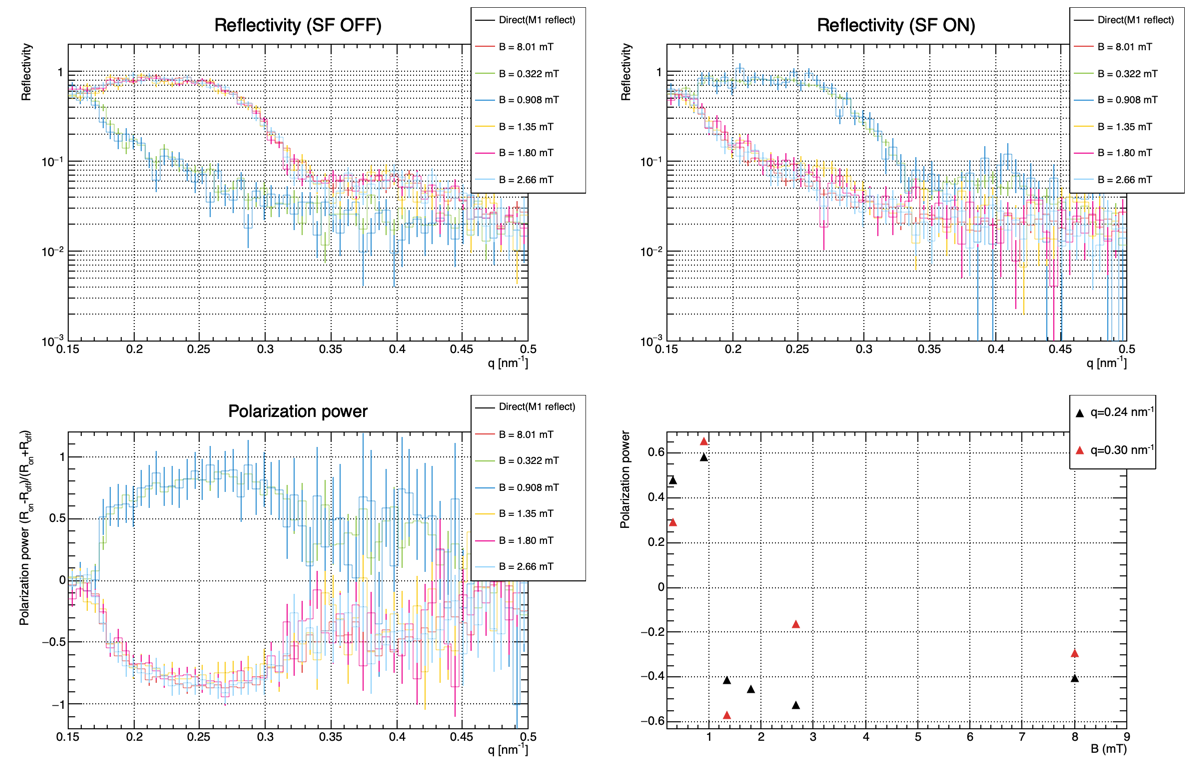
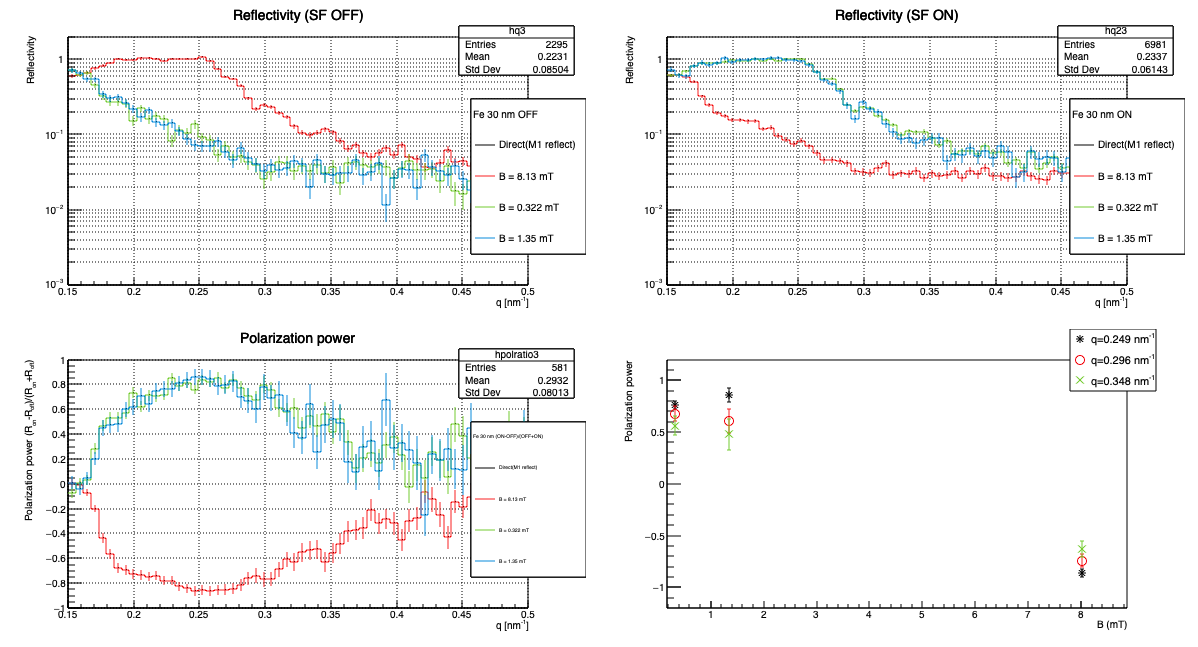
mT_Pol_50nm+90nm

diff --git a/codes/simple/Pol_Power_50nm.C b/codes/simple/Pol_Power_50nm.C
@@ -52,7 +52,7 @@ Int_t Pol_Power_50nm(){
   InitColor();
   TH1::SetDefaultSumw2();
 
-  const Int_t num = 7;
+  const Int_t num = 3;
   Int_t kp[num];
   Int_t kp2[num];
   TTree* tup[num];
@@ -93,7 +93,7 @@ Int_t Pol_Power_50nm(){
   TString degstr2[num];
   //off
   degstr[0]="Direct(M1 reflect)";
-  degstr[1]="B = 8.01 mT";
+  degstr[1]="B = 8.13 mT";
   degstr[2]="B = 0.322 mT";
   //degstr[3]="B = 0.908 mT";
   //degstr[4]="B = 1.35 mT";
@@ -102,7 +102,7 @@ Int_t Pol_Power_50nm(){
 
   //on
   degstr2[0]="Direct(M1 reflect)";
-  degstr2[1]="B = 8.01 mT";
+  degstr2[1]="B = 8.13 mT";
   degstr2[2]="B = 0.322 mT";
   //degstr2[3]="B = 0.908 mT";
   //degstr2[4]="B = 1.35 mT";
@@ -325,13 +325,8 @@ Int_t Pol_Power_50nm(){
     else hpolratio[i]->Draw("ehsames");
     leg3->Draw();
     }
+
     
-/*
-    c1->cd(3);
-    if(i==1)hpolrhqtio[i]->Draw("eh");
-    else hpolratio[i]->Draw("ehsames");
-    leg->Draw();
-*/
     
     hpolratio[i]->GetXaxis()->SetRangeUser(q_min,q_max);
     hpolratio[i]->GetYaxis()->SetRangeUser(-1.,1.);
@@ -343,11 +338,52 @@ Int_t Pol_Power_50nm(){
     hq[i]->SaveAs(path_R + Form("hq_off_%d.root", i));
     hq2[i]->SaveAs(path_R + Form("hq_on_%d.root", i));
   }
+
+  const Int_t num_pol = 3;
+    TGraphErrors* gr[num_pol];
+    // Double_t q_cuts[num_pol] = {0.2, 0.25, 0.3, 0.35, 0.4};
+    Double_t q_cuts[num_pol] = {0.25, 0.3, 0.35};
+    
+    Double_t B[num-1] = {8.13,0.322};
+    // Double_t q_cuts[num_pol] = {0.2, 0.25, 0.3, 0.35, 0.4};
+    Double_t pol_at_qcut[num-1];
+    Double_t error_pol_at_qcut[num-1];
+
+    Double_t ibin_pol[num_pol];
+
+    c1->cd(4); 
+    TLegend *leg4 = new TLegend(0.8, 0.8, 0.95, 1, "");
+    // leg4->SetFillStyle(0);
+    for (Int_t i=0; i<num_pol; i++){
+      ibin_pol[i]= Int_t((q_cuts[i]-q_min)*nbin_q/(q_max-q_min));
+      for (Int_t j=0; j<num-1; j++){
+        pol_at_qcut[j] = hpolratio[j+1]->GetBinContent(ibin_pol[i]);
+        error_pol_at_qcut[j] = hpolratio[j+1]->GetBinError(ibin_pol[i]);
+        // cout <<   pol_at_qcut[j] << endl;
+        // count << Form("At q=%.2f nm^{-1}, B=%.3f mT: Polarization power=", q_cuts[i], B[i])<<  pol_at_qcut[i] << endl;
+      }
+      gr[i]= new TGraphErrors(num-1, B, pol_at_qcut,0,error_pol_at_qcut);
+      gr[i]->GetXaxis()->SetRangeUser(0.2, 9);
+      gr[i]->GetYaxis()->SetRangeUser(-1.2, 1.2);
+      if (i==0) gr[i]->Draw("AP");
+      else gr[i]->Draw("P");
+      gr[i]->SetMarkerColor(i+1);
+      gr[i]->SetLineColor(i+1);
+      gr[i]->SetMarkerStyle(i+3);
+      gr[i]->SetMarkerSize(1);
+      gr[i]->GetXaxis()->SetTitle("B (mT)");
+      gr[i]->GetYaxis()->SetTitle("Polarization power");
+      gr[i]->SetTitle("");
+      leg4->AddEntry(gr[i],Form("q=%.3f nm^{-1}",q_min + (q_max-q_min)*ibin_pol[i]/nbin_q),"p");
+
+    }
+    leg4->Draw();
+    
+
   c1->cd(1); gPad->SetGrid();gPad->SetLogy();
   c1->cd(2); gPad->SetGrid();gPad->SetLogy();
-  
   c1->cd(3); gPad->SetGrid();//gPad->SetLogy();
-  // c1->cd(4); gPad->SetGrid();//gPad->SetLogy();
+  c1->cd(4); gPad->SetGrid();//gPad->SetLogy();
 
   c1->SaveAs(path_R+"pol.png");
   c1->SaveAs(path_R+"pol.root");

diff --git a/codes/simple/Pol_Power_90nm.C b/codes/simple/Pol_Power_90nm.C
@@ -344,6 +344,47 @@ Int_t Pol_Power_90nm(){
     hq[i]->SaveAs(path_R + Form("hq_off_%d.root", i));
     hq2[i]->SaveAs(path_R + Form("hq_on_%d.root", i));
   }
+
+  const Int_t num_pol = 3;
+  TGraphErrors* gr[num_pol];
+  // Double_t q_cuts[num_pol] = {0.2, 0.25, 0.3, 0.35, 0.4};
+  Double_t q_cuts[num_pol] = {0.25, 0.3, 0.35};
+  
+  Double_t B[num-1] = {8.01,0.322,1.35};
+  // Double_t q_cuts[num_pol] = {0.2, 0.25, 0.3, 0.35, 0.4};
+  Double_t pol_at_qcut[num-1];
+  Double_t error_pol_at_qcut[num-1];
+
+  Double_t ibin_pol[num_pol];
+
+  c1->cd(4); 
+  TLegend *leg4 = new TLegend(0.8, 0.8, 0.95, 1, "");
+  // leg4->SetFillStyle(0);
+  for (Int_t i=0; i<num_pol; i++){
+    ibin_pol[i]= Int_t((q_cuts[i]-q_min)*nbin_q/(q_max-q_min));
+    for (Int_t j=0; j<num-1; j++){
+      pol_at_qcut[j] = hpolratio[j+1]->GetBinContent(ibin_pol[i]);
+      error_pol_at_qcut[j] = hpolratio[j+1]->GetBinError(ibin_pol[i]);
+      // cout <<   pol_at_qcut[j] << endl;
+      // count << Form("At q=%.2f nm^{-1}, B=%.3f mT: Polarization power=", q_cuts[i], B[i])<<  pol_at_qcut[i] << endl;
+    }
+    gr[i]= new TGraphErrors(num-1, B, pol_at_qcut,0,error_pol_at_qcut);
+    gr[i]->GetXaxis()->SetRangeUser(0.2, 9);
+    gr[i]->GetYaxis()->SetRangeUser(-1.2, 1.2);
+    if (i==0) gr[i]->Draw("AP");
+    else gr[i]->Draw("P");
+    gr[i]->SetMarkerColor(i+1);
+    gr[i]->SetLineColor(i+1);
+    gr[i]->SetMarkerStyle(i+3);
+    gr[i]->SetMarkerSize(1);
+    gr[i]->GetXaxis()->SetTitle("B (mT)");
+    gr[i]->GetYaxis()->SetTitle("Polarization power");
+    gr[i]->SetTitle("");
+    leg4->AddEntry(gr[i],Form("q=%.3f nm^{-1}",q_min + (q_max-q_min)*ibin_pol[i]/nbin_q),"p");
+
+  }
+  leg4->Draw();
+
   c1->cd(1); gPad->SetGrid();gPad->SetLogy();
   c1->cd(2); gPad->SetGrid();gPad->SetLogy();
   

diff --git a/notes/analysis_log.md b/notes/analysis_log.md
@@ -89,13 +89,18 @@ if(useMRfirst) kp2[i] = tup2[i]->GetMaximum("mp");//"mp2"->"mp"
  - The section from l.299: cleared the canvas before plotting hq, hq2. Used if statement in order not to plot hq0 (Direct beam data)
  - From l.134: Adjusted the position of TLegend 
 
-## 2021-08-20  AH
+  ## 2021-08-20  AH
  - Added Pol_Power_30nm.C, Pol_Power_50nm.C, Pol_Power_90nm.C
  edit namestr, degstr, angle
  - Added q025_30nm.C (AFP magnetic field - Polarizing Power)
+ 
+   ## 2021-08-21  AH
+ - Edit q025_30nm.C (Added "" "")
+ double nbin_qq=(qq-""q_min"")*nbin_q/(q_max-q_min);
+ - Edit Pol_Power_30nm_temp.C (Added "" "")
+  ibin_pol[i]= Int_t((q_cuts[i]-""q_min"")*nbin_q/(q_max-q_min));
+  leg4->AddEntry(gr[i],Form("q=%.3f nm^{-1}",""q_min"" + (q_max-q_min)*ibin_pol[i]/""nbin_q""),"p");
+ - Added  Pol_Power_50nm.C, Pol_Power_90nm.C
+ Draw Graph mT vs Polarizing Power (lower right)
+ 
 
-
-## 2021-08-21 TH
--  Copied Pol_Power_30nm.C to Pol_Power_30nm_temp.C
-   -  Defined for loops to draw graphs at different q cut
-   -  Problem: the value at B=8mT looks not consistent with the 3rd graph of polarization power vs q
